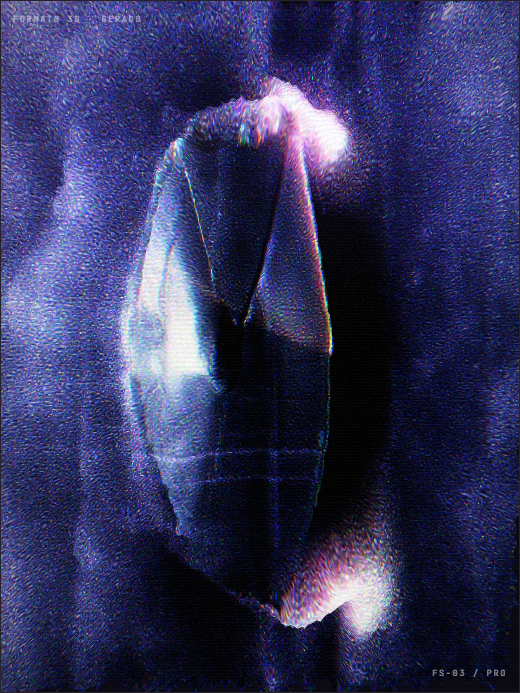
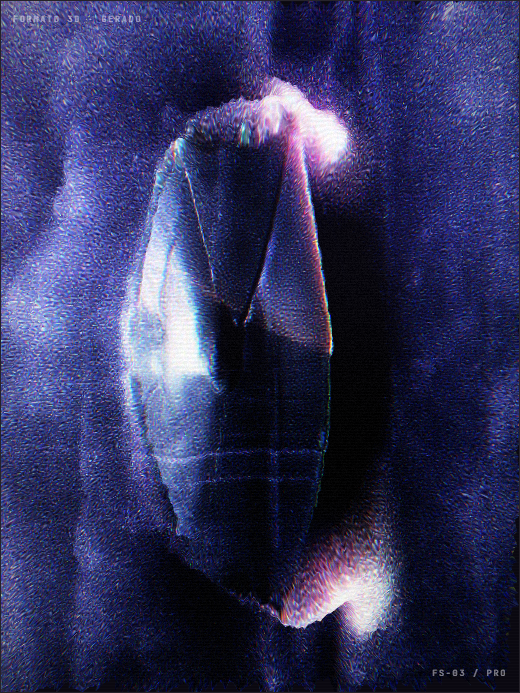
Poster 01: teléfono cromado (render Blender) con parallax por mapa de profundidad

diff --git a/server.js b/server.js
@@ -56,7 +56,12 @@ const EVENTS = [
     id: 'rawmorphic',
     title: 'RAWMORPHIC',
     subtitle: 'Edição 01',
-    scene: 'rawmorphic',
+    scene: 'poster-rawmorphic',
+    poster: {
+      color: '/assets/posters/rawmorphic.jpg',
+      depth: '/assets/posters/rawmorphic-depth.png',
+      generated: 'Blender Cycles (01_cromo_gotico) + mapa de profundidade'
+    },
     isoDate: '2026-11-18T18:00:00-03:00',
     dateLabel: 'Qua, 18 de novembro de 2026',
     timeLabel: '18h às 3h',

diff --git a/tools/depth_map.py b/tools/depth_map.py
@@ -70,9 +70,14 @@ def make_normal(depth, strength=2.4):
 
 def main():
     slug = sys.argv[1]
-    src = os.path.join(POSTERS, f"{slug}.png")
-    if not os.path.exists(src):
-        print(f"no existe {src}")
+    src = None
+    for ext in (".png", ".jpg", ".jpeg", ".webp"):
+        cand = os.path.join(POSTERS, f"{slug}{ext}")
+        if os.path.exists(cand):
+            src = cand
+            break
+    if not src:
+        print(f"no existe poster para {slug} en {POSTERS}")
         return 1
 
     im, rgb = load(src)
